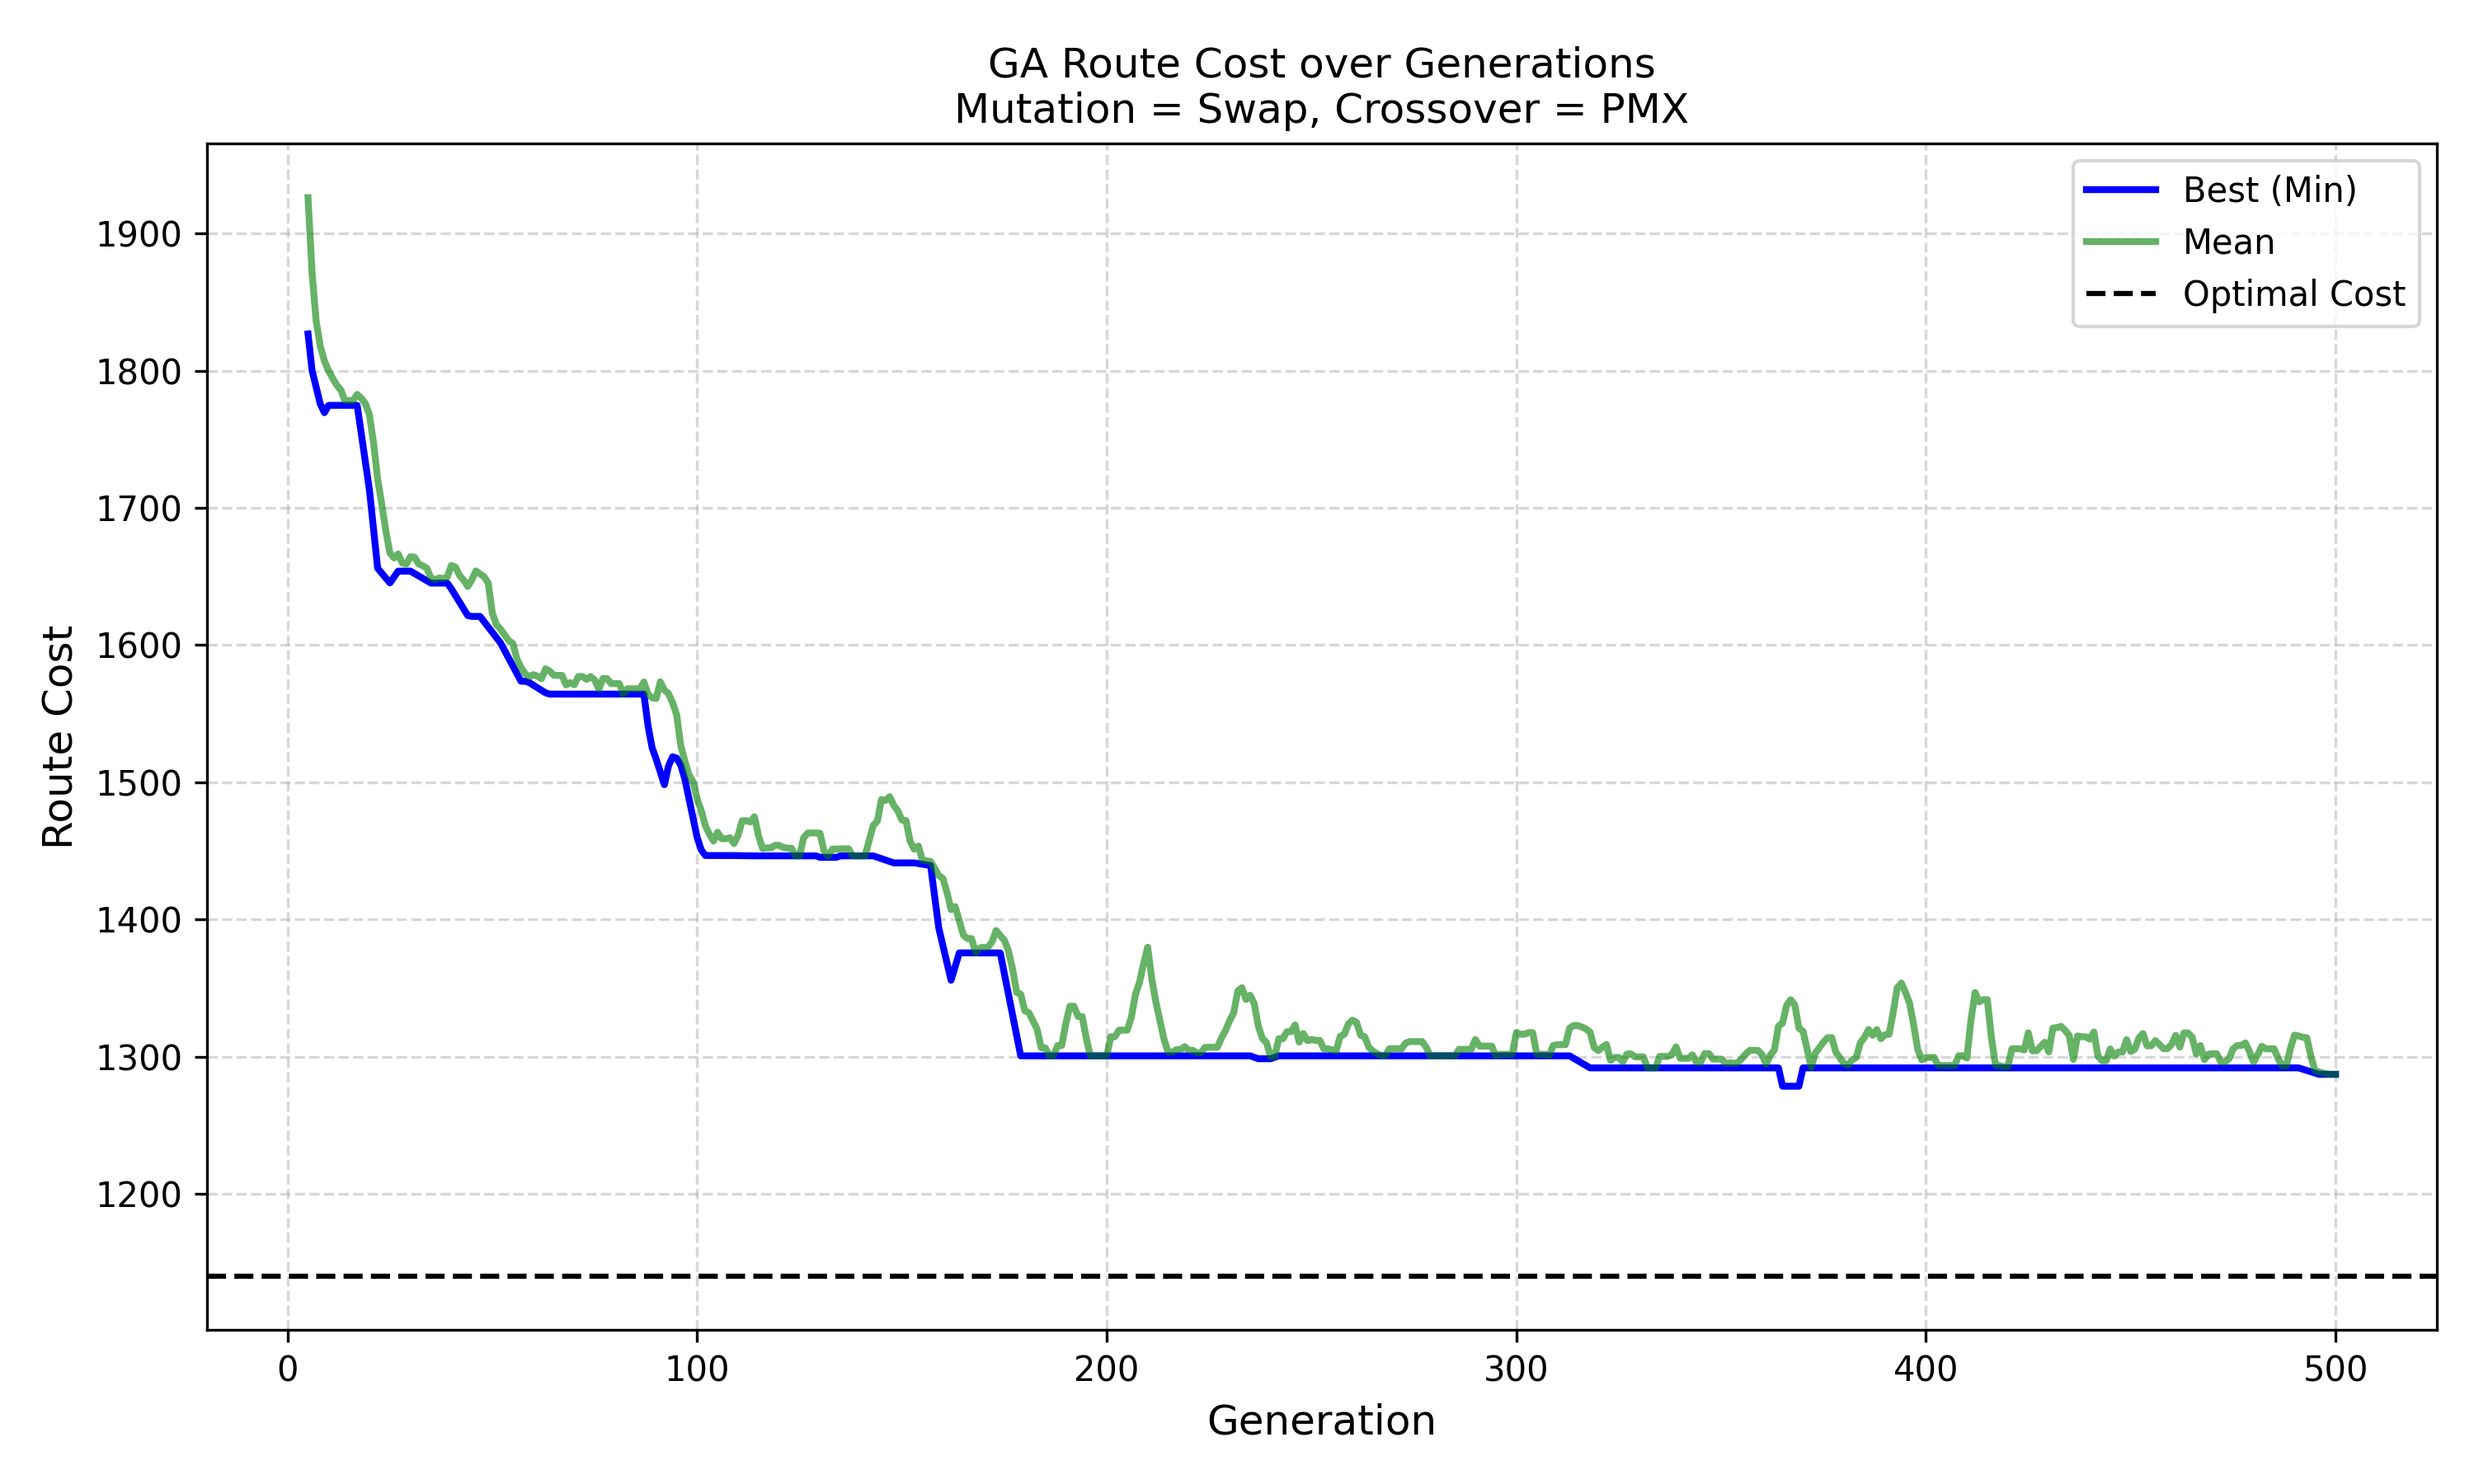
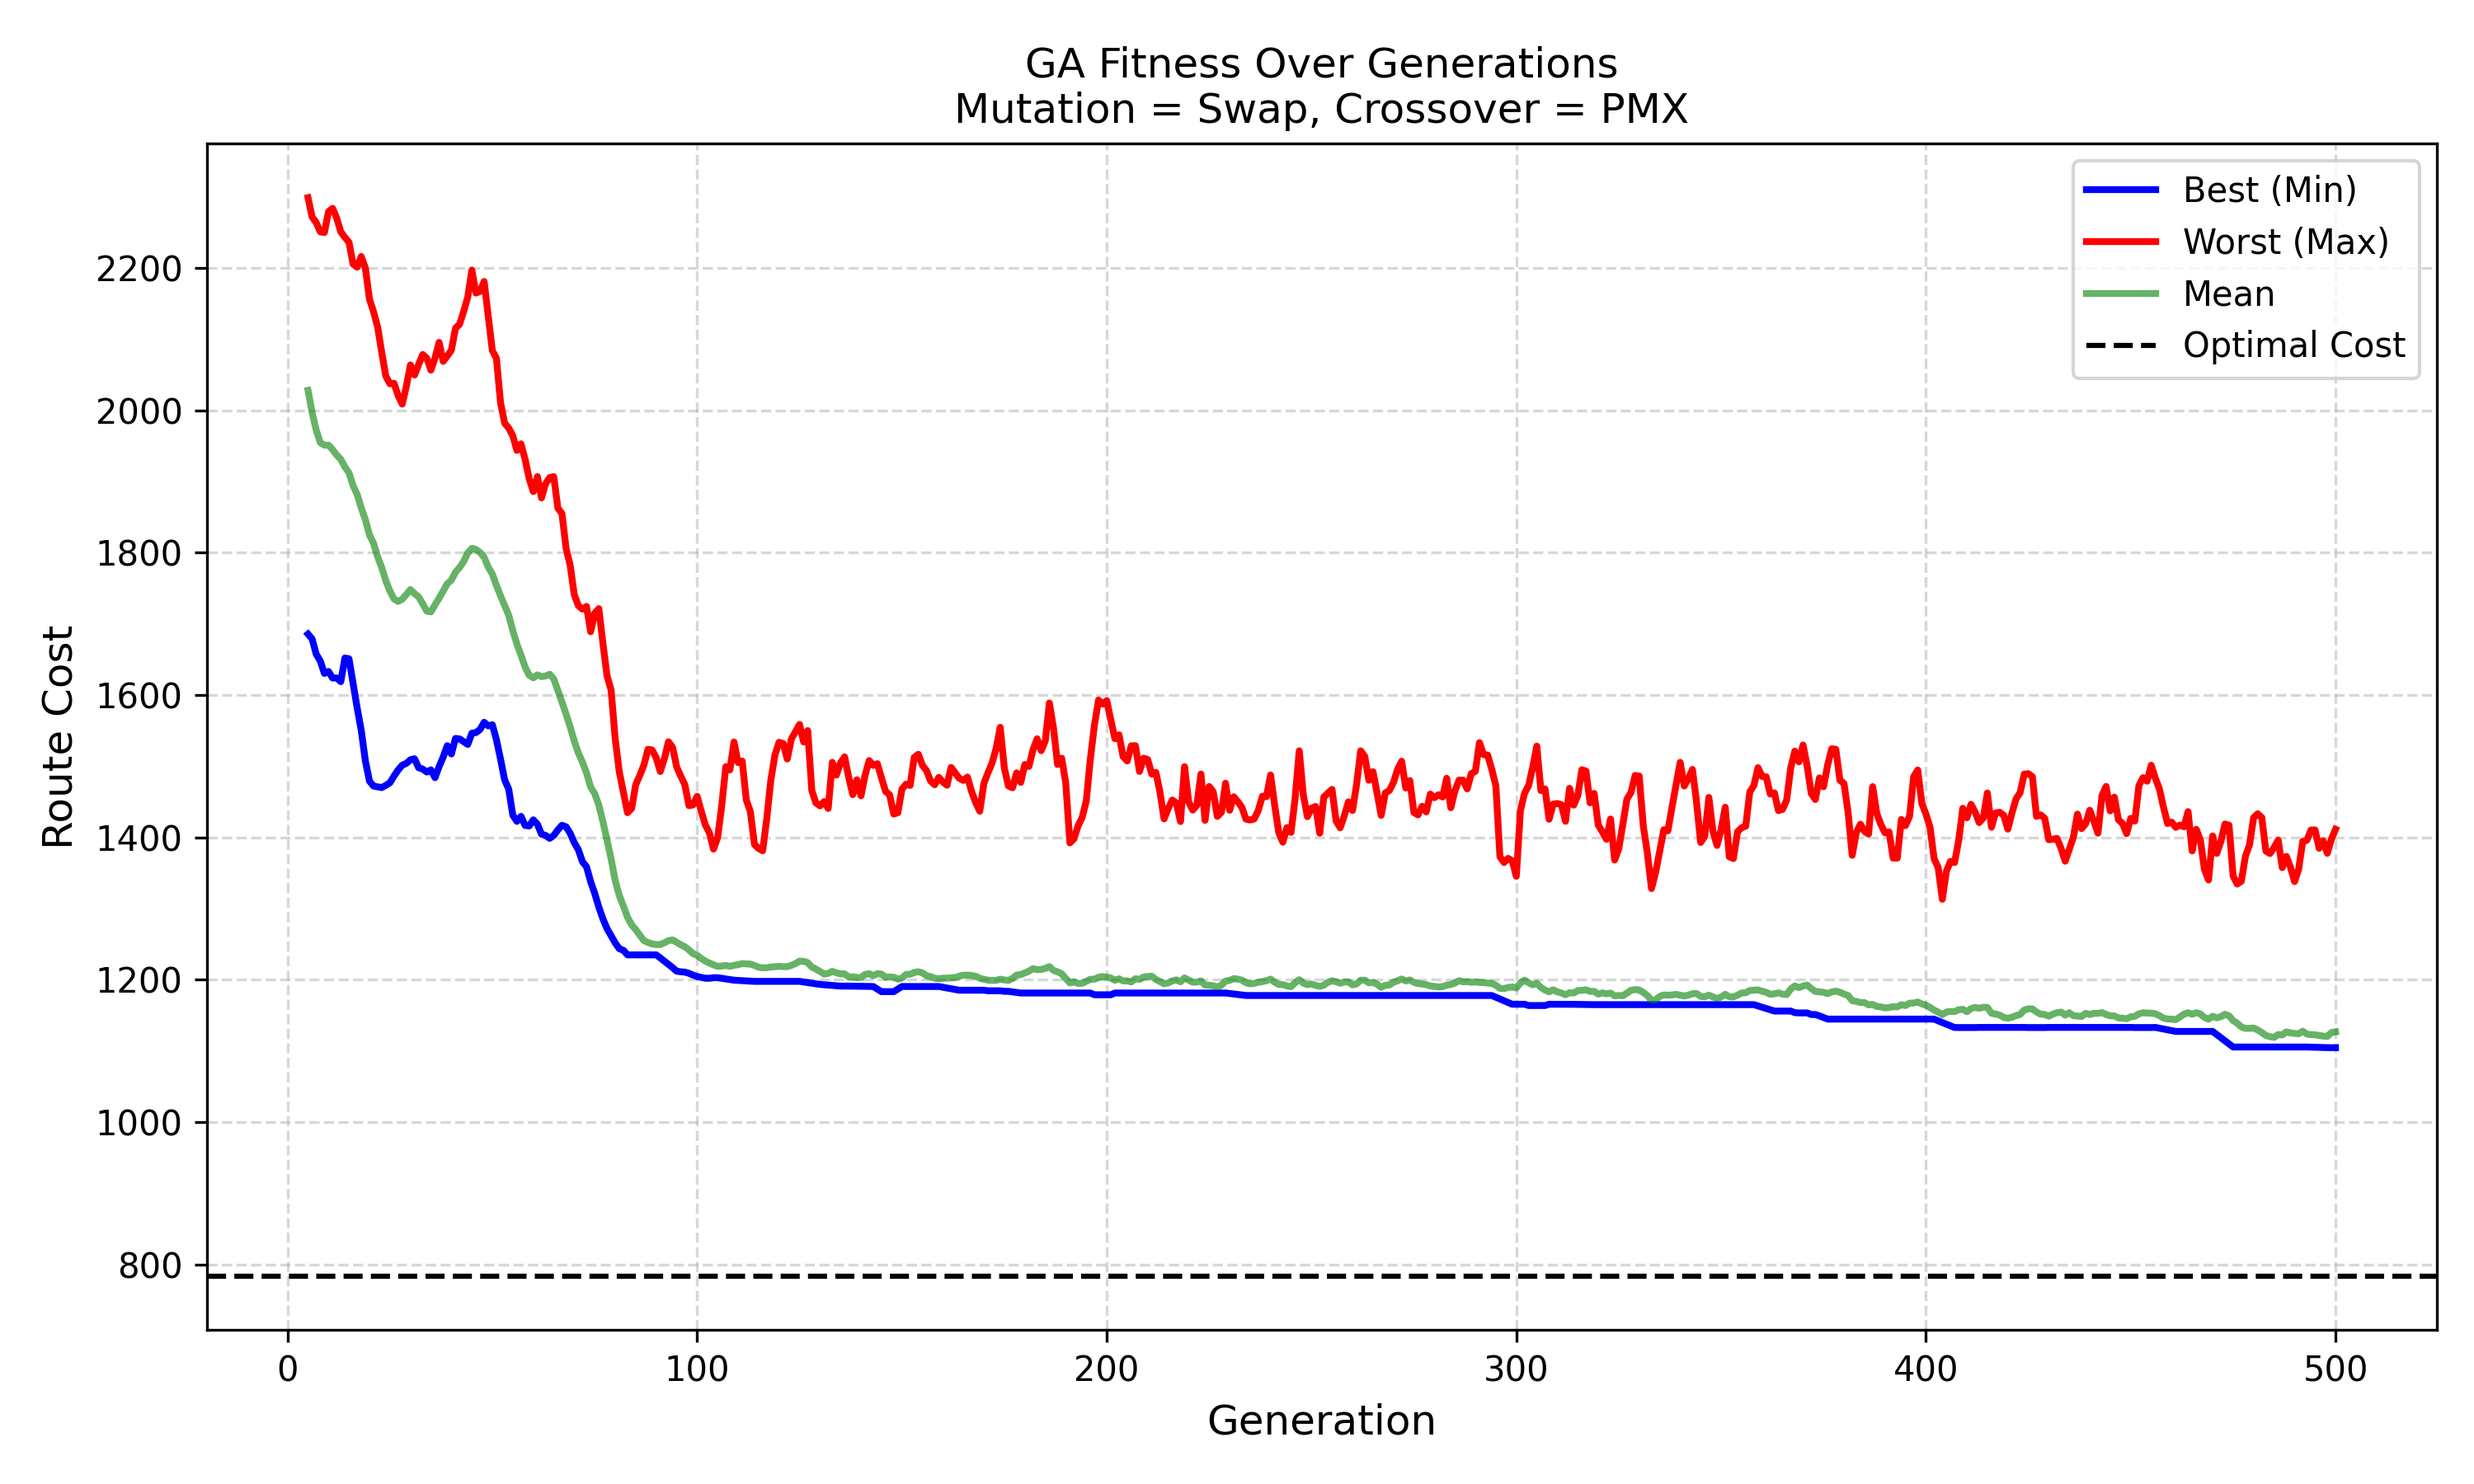
New and different results
New and different results

diff --git a/ga_fitness_plotter.py b/ga_fitness_plotter.py
@@ -9,7 +9,7 @@ def smooth(values, window=5):
 
 # Load data
 cvrp_data = CVRPData("data/A-n32-k5.vrp")
-optimal_cost = 1140
+optimal_cost = 784  # Replace with correct optimal cost if needed
 
 # Configs to compare
 configs = [
@@ -20,7 +20,7 @@ configs = [
 ]
 
 generations = 500
-population_size = 5
+population_size = 50  # You wrote 5 by mistake? Normally 50 or 100.
 
 for cfg in configs:
     ga = GeneticAlgorithmCVRP(
@@ -35,12 +35,15 @@ for cfg in configs:
 
     population = ga.initialize_population()
 
-    min_fitness, mean_fitness = [], []
+    min_fitness, max_fitness, mean_fitness, std_fitness = [], [], [], []
 
     for _ in range(generations):
         fitnesses = [ga.evaluate_route(ind) for ind in population]
+
         min_fitness.append(min(fitnesses))
+        max_fitness.append(max(fitnesses))
         mean_fitness.append(np.mean(fitnesses))
+        std_fitness.append(np.std(fitnesses))
 
         new_population = []
         for _ in range(population_size):
@@ -55,16 +58,19 @@ for cfg in configs:
     smooth_window = 5
     gens = np.arange(1, generations + 1)
     min_sm = smooth(min_fitness, smooth_window)
+    max_sm = smooth(max_fitness, smooth_window)
     mean_sm = smooth(mean_fitness, smooth_window)
+    std_sm = smooth(std_fitness, smooth_window)
     gens_sm = gens[smooth_window - 1:]  # Align with smoothed data
 
-    # Plot
+    # Plot Best, Mean, Worst, and Optimal
     plt.figure(figsize=(10, 6))
     plt.plot(gens_sm, min_sm, label="Best (Min)", color="blue", linewidth=2)
+    plt.plot(gens_sm, max_sm, label="Worst (Max)", color="red", linewidth=2)
     plt.plot(gens_sm, mean_sm, label="Mean", color="green", linewidth=2, alpha=0.6)
     plt.axhline(y=optimal_cost, color='black', linestyle='--', label='Optimal Cost')
 
-    plt.title(f"GA Route Cost over Generations\nMutation = {cfg['mutation'].capitalize()}, Crossover = {cfg['crossover']}")
+    plt.title(f"GA Fitness Over Generations\nMutation = {cfg['mutation'].capitalize()}, Crossover = {cfg['crossover']}")
     plt.xlabel("Generation", fontsize=12)
     plt.ylabel("Route Cost", fontsize=12)
     plt.xticks(fontsize=10)
@@ -74,3 +80,10 @@ for cfg in configs:
     plt.tight_layout()
     plt.savefig(f"ga_fitness_plot_{cfg['mutation']}_{cfg['crossover']}.png", dpi=300)
     plt.show()
+
+    # Optional: print final GA stats after last generation
+    print(f"\n✅ Config: Mutation = {cfg['mutation']}, Crossover = {cfg['crossover']}")
+    print(f"GA Best (Min): {min_fitness[-1]:.2f}")
+    print(f"GA Worst (Max): {max_fitness[-1]:.2f}")
+    print(f"GA Avg (Mean): {mean_fitness[-1]:.2f}")
+    print(f"GA Std Dev   : {std_fitness[-1]:.2f}")
